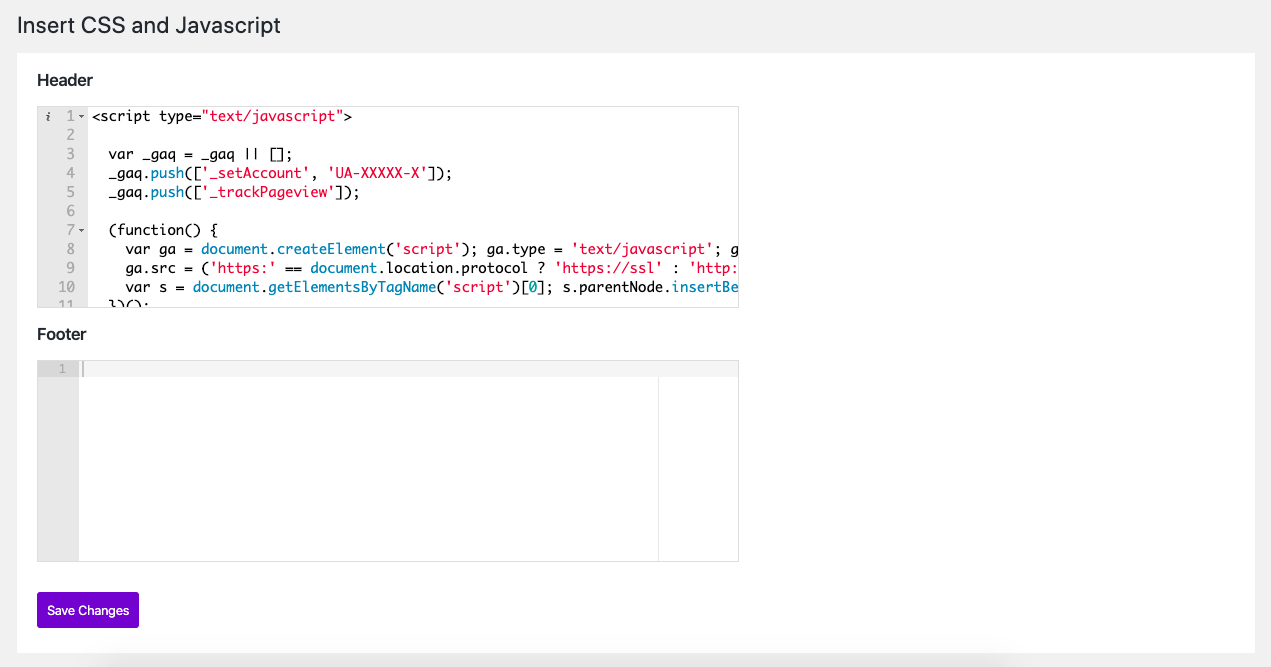
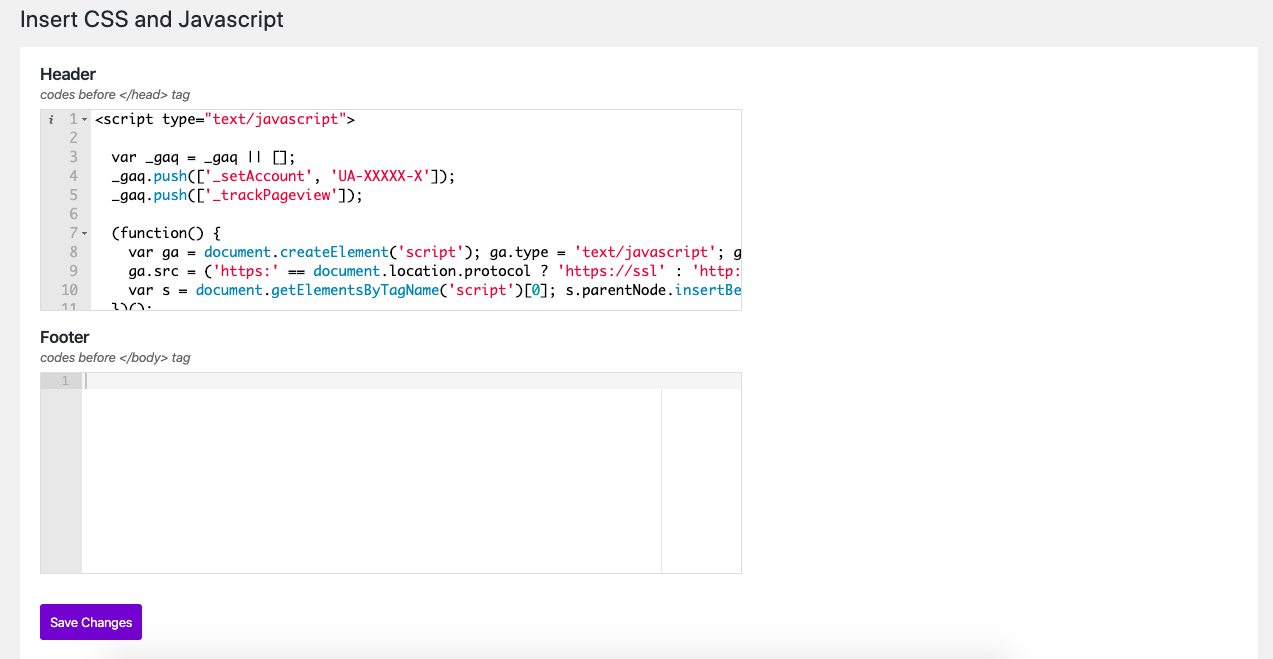
Update - Minor UI Improved

diff --git a/admin/css/icj-admin.css b/admin/css/icj-admin.css
@@ -73,6 +73,10 @@
     margin-top: 10px;
 }
 
+.icj_dashboard .title {
+    margin-bottom: 0px;
+}
+
 .icj_dashboard .button {
     padding: 5px 10px;
     background: #663bc8;

diff --git a/admin/partials/icj-admin-display.php b/admin/partials/icj-admin-display.php
@@ -17,8 +17,10 @@
         <form method="POST">
             <?php wp_nonce_field( 'icj_action', 'icj_field' ); ?>
             <h2 class="title">Header</h2>
+            <p class="description">codes before &lt;/head&gt; tag</p>
             <div id="editor" class="icj_editor header"></div>
             <h2 class="title">Footer</h2>
+            <p class="description">codes before &lt;/body&gt; tag</p>
             <div id="editor" class="icj_editor footer"></div>
             <p class="submit">
                 <input type="submit" name="submit" id="submit" class="button button-primary" value="Save Changes">
